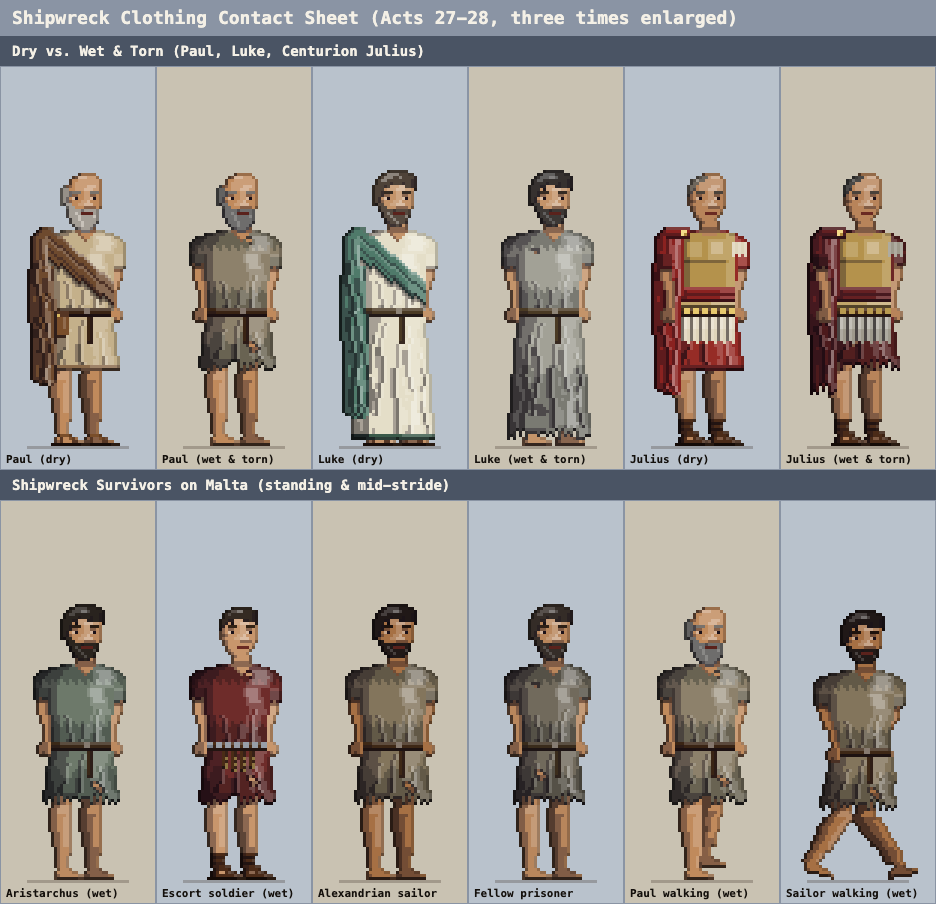
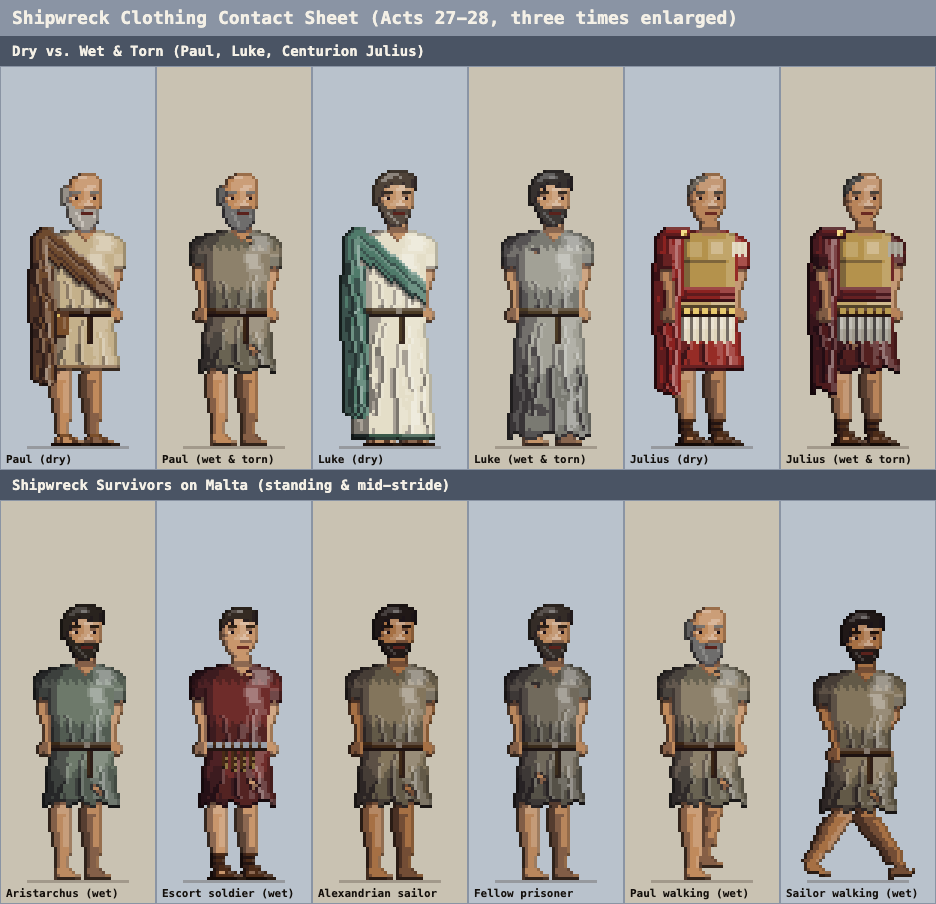
Polish: chunked torn hems covering hip transition and cleaner barefoot heel

diff --git a/index.html b/index.html
@@ -971,8 +971,9 @@ function person(g,x,y,o,dir,fr,talk,bow,ges,blink,mv){
   const seat=fr<0,W=!seat&&fr>3?gaitPose(o,(fr-4&15)/16,[1,.75,.5][fr-4>>4]||1):!seat&&fr?gaitPose(o,[0,0,.25,.5][fr]||0,1):null,bob=W?W.bob:0;let SH=null;
   /* px: a run of pixels. While a foot is painted, SH lets each of its columns sit higher than the next: a heel that is up, or the toes */
   const px=(a,b,col,w,h)=>{g.fillStyle=col;if(SH)for(let i=0;i<(w||1);i++)g.fillRect(a+i,b+SH(a+i),1,h||1);else g.fillRect(a,b,w||1,h||1)};
-  /* tearCut: how many rows are bitten off a ragged hem at column k, deterministic by TORN variant (keeps every column connected to above) */
-  const tearCut=(k,w)=>{if(!TORN)return 0;const s=TORN*17+k*31,u=((s^(s>>3))*13)&15;return k<2||k>w-3?u%2:u<3?3:u<7?2:u<11?1:0};
+  /* tearCut: natural 2-3px jagged cloth tongues along a ragged hem (max 2px notch, keeps every column connected to above) */
+  const tearCut=(k,w)=>{if(!TORN)return 0;const p=[0,1,2,2,0,1,2,1,0,2,1,0],g=Math.floor((k+TORN*2)/2),c=p[(g+TORN*3)%p.length];
+    return k<2||k>w-3?Math.min(1,c):c};
   const body=()=>{
   /* cloth: one pixel row of a rounded form lit from the front right. folds: [position 0-1, first row, drift per row, last row];
      each is a dark crease with a light ridge beside it, wandering a little as it falls. hi: rows that catch a highlight.
@@ -1007,7 +1008,7 @@ function person(g,x,y,o,dir,fr,talk,bow,ges,blink,mv){
   arm(false,W?W.fa:0,ARM||o.stub||(ges&&ges!==4&&!bow),W?W.fb:0);
   /* legs and sandals (or barefoot, or Roman military caligae), or the feet under a long robe */
   const boot=o.caligae?ramp('#4b2b18'):null;
-  const foot=(fx0,fy,R)=>{if(o.barefoot){px(fx0+1,fy,R[2],5);px(fx0,fy+1,R[2],8);px(fx0,fy+2,R[2],10);px(fx0+8,fy+2,R[1],2);px(fx0,fy+1,R[3]);px(fx0,fy+2,R[3],2);px(fx0,fy+3,R[3],10);px(fx0+1,fy+3,R[4],7);return}
+  const foot=(fx0,fy,R)=>{if(o.barefoot){px(fx0,fy,R[3]);px(fx0+1,fy,R[2],5);px(fx0,fy+1,R[2],7);px(fx0,fy+2,R[2],9);px(fx0+7,fy+2,R[1],2);px(fx0,fy+1,R[3]);px(fx0,fy+2,R[3],2);px(fx0,fy+3,R[3],9);px(fx0+1,fy+3,R[4],6);return}
     if(boot){px(fx0+1,fy-1,boot[2],6,2);px(fx0+1,fy-1,boot[3],2,2);px(fx0+5,fy-1,boot[1],2);
       px(fx0,fy+1,boot[2],9);px(fx0,fy+2,boot[2],11);px(fx0+8,fy+2,boot[1],3);px(fx0,fy+1,boot[4],2);px(fx0,fy+2,boot[4],2);
       px(fx0+3,fy+1,R[2],2);px(fx0+6,fy+1,boot[1],2);px(fx0-1,fy+3,'#24140c',13);px(fx0+9,fy+3,'#4a3020',3);return}
@@ -1018,8 +1019,8 @@ function person(g,x,y,o,dir,fr,talk,bow,ges,blink,mv){
   /* a leg below the hem, in two parts: the knee (kx) and the ankle (ax) each have their place. dk: the far leg, a tone darker. A shin that
      slants is drawn a little wider, or it would look thin. */
   const leg=(k0,P,dk)=>{const R=dk?[S[1],S[2],S[3],S[4],S[4]]:S,hu=P.p<0?-P.p:0,tu=P.p>0?P.p:0,y1=yA-P.ly-Math.round(hu*.7+tu*.3),n=y1-yH,K=3,sl=Math.abs(P.ax-P.kx)/Math.max(1,n-1-K);
-    /* when the tunic hem is torn, extend the shaded upper thigh 3 rows above yH so notches never expose an air gap */
-    for(let i=TORN?-3:0;i<n;i++){const t=Math.max(0,i)/(n-1),cx=Math.round(k0+(i<=K?P.kx:P.kx+(P.ax-P.kx)*(i-K)/Math.max(1,n-1-K))),ex=i>K?(sl>.5?2:sl>.25?1:0):0,w=(t<.12?7:t<.5?8:t<.7?7:t<.86?6:5)+ex,x0=cx+(t<.12?0:t<.5?-1:t<.7?0:1)-(ex>1?1:0);
+    /* when the tunic hem is torn, extend the shaded upper thigh 1 row above yH so notches never expose an air gap */
+    for(let i=TORN?-1:0;i<n;i++){const t=Math.max(0,i)/(n-1),cx=Math.round(k0+(i<=K?P.kx:P.kx+(P.ax-P.kx)*(i-K)/Math.max(1,n-1-K))),ex=i>K?(sl>.5?2:sl>.25?1:0):0,w=(t<.12?7:t<.5?8:t<.7?7:t<.86?6:5)+ex,x0=cx+(t<.12?0:t<.5?-1:t<.7?0:1)-(ex>1?1:0);
       const inBoot=boot&&i>=n-5;
       for(let k=0;k<w;k++){const u=(k+.5)/w;let v=u<.18?4:u<.4?3:u<.76?2:1;if(i<2)v=Math.min(4,v+1);else if(t<.2&&u>.4&&u<.7)v=1;if(k===w-3&&t>.25&&t<.7)v=Math.max(0,v-1);
         if(inBoot){const br=i===n-5||i===n-3||i===n-1;px(x0+k,yH+i,(br?boot:dk?[boot[2],boot[3],boot[3],boot[4],boot[4]]:boot)[Math.min(4,v+(br?0:1))])}
@@ -1029,11 +1030,11 @@ function person(g,x,y,o,dir,fr,talk,bow,ges,blink,mv){
     const ankle=(ax0,P,R)=>{if(!TORN)return;for(let j=1;j<=3;j++)for(let k=0;k<5;k++)px(ax0+1+k,yA-P.ly-j,R[k===0?4:k===1?3:k<4?2:1])};
     if(seat&&o.long){footP(9,REST,[S[1],S[2],S[3],S[4],S[4]]);footP(-2,REST,S)}else if(seat){leg(5,REST,1);leg(-2,REST,0)}
     else if(o.long){const r0=[S[1],S[2],S[3],S[4],S[4]];ankle(Math.round(3+L0.ax),L0,r0);footP(Math.round(3+L0.ax),L0,r0);ankle(Math.round(-8+L1.ax),L1,S);footP(Math.round(-8+L1.ax),L1,S)}else{leg(1-hip*2,L0,1);leg(-9+hip,L1,0)}}
-  /* skirt of a short tunic, or a robe to the ankles; a woman's robe widens over the hips. When torn: jagged hem & fabric rip. */
-  const SR=c.st,hem=c.tr||[T[3],T[3],T[3],T[4],T[4]],y1=o.long?yA+1:seat?yH+3:yH+1,n=y1-yB+1,sl=seat&&!!o.long;
+  /* skirt of a short tunic, or a robe to the ankles; a woman's robe widens over the hips. When torn: jagged ragged tongues & fabric rip. */
+  const SR=c.st,hem=c.tr||[T[3],T[3],T[3],T[4],T[4]],y1=o.long?yA+1:seat?yH+3:TORN?yH+2:yH+1,n=y1-yB+1,sl=seat&&!!o.long;
   const skWet=WET?((k,w,i)=>i>n*(o.long?.42:.36)+Math.round(Math.sin(k*.7+TORN)*2.5)):null;
   for(let i=0;i<n;i++){const t=i/(n-1),hw=(fem?8+Math.min(3,Math.round(i*.6)):10-slim)+Math.round(t*(fem?2.2:o.long?3.2:2)),sw=W?Math.round(W.sk*t):0,x0=-hw+sw+(sl?Math.max(0,Math.min(4,i-7)):0),x1=hw+1+sw+(sl?Math.min(6,Math.round(i*.9)):seat?Math.round(t*5):0),yy=yB+i,w=x1-x0+1;
-    if(TORN&&i>=n-4){for(let k=0;k<w;k++){const cut=tearCut(k,w);if(i>=n-cut)continue;const edge=i===n-cut-1,P=c.tuW||T,u=(k+.5)/w;
+    if(TORN&&i>=n-3){for(let k=0;k<w;k++){const cut=tearCut(k,w);if(i>=n-cut)continue;const edge=i===n-cut-1,P=c.tuW||T,u=(k+.5)/w;
         px(x0+k,yy,edge?P[4]:P[u<.2?4:u<.45?3:u<.85?2:1])}}
     else if(i>=n-2){for(let xx=x0;xx<=x1;xx++){const u=(xx-x0+.5)/w;px(xx,yy,i===n-1?hem[u<.3?4:3]:hem[u<.2?4:u<.6?2:1])}}
     else if(HIM&&i<(TOGA?n-5:n-6)){const xc=TOGA?(i<=n-12?x1:x1-Math.round(w*(i-(n-12))/8)):(i<=n-14?x1:x1-Math.round(w*(i-(n-14))/8)),

diff --git a/tools/playtest-harness.html b/tools/playtest-harness.html
@@ -394,10 +394,10 @@
       SHEETS['cast-shipwreck']=c.toDataURL();
       /* 6x close-ups of wet hair, torn tunic hems & barefoot/wet boots (including walking stride) */
       const DET=[['Paul wet & torn',S.paul_wet,0],['Luke wet & torn',S.luke_wet,0],['Julius wet cloak/armor',S.julius_wet,0],['Sailor standing',S.sailor_wet,0],['Sailor walking (fr 12)',S.sailor_wet,12]],
-        ZD=6,dw=228,dh=344,[cd,gd]=sheet(DET.length*dw,36+dh*2);
+        ZD=6,dw=264,dh=344,[cd,gd]=sheet(DET.length*dw,36+dh*2);
       text(gd,'Shipwreck Details (6x): wet hair & upper cloth (top), torn hems & feet (bottom)',12,24,14,'#f4f0e6');
-      DET.forEach(([nm,o,fr],i)=>{const x=i*dw;field(gd,i,x,36,dw,dh);cut(gd,spr(o,'swd1_'+i,1,fr),-19,-96,38,52,x,36+4,ZD);text(gd,nm,x+6,36+dh-8,12);
-        field(gd,i+1,x,36+dh,dw,dh);cut(gd,spr(o,'swd2_'+i,1,fr),-19,-48,38,50,x,36+dh+4,ZD);text(gd,'hem & feet',x+6,36+dh*2-8,12)});
+      DET.forEach(([nm,o,fr],i)=>{const x=i*dw;field(gd,i,x,36,dw,dh);cut(gd,spr(o,'swd1_'+i,1,fr),-22,-96,44,52,x,36+4,ZD);text(gd,nm,x+6,36+dh-8,12);
+        field(gd,i+1,x,36+dh,dw,dh);cut(gd,spr(o,'swd2_'+i,1,fr),-22,-48,44,50,x,36+dh+4,ZD);text(gd,'hem & feet',x+6,36+dh*2-8,12)});
       SHEETS['cast-shipwreck-detail']=cd.toDataURL();
       window.SHEETS=SHEETS;halt('shipwreck')}
     if(stop==='romans'){const R=C.ROMAN;checkSet(R,'romans');
